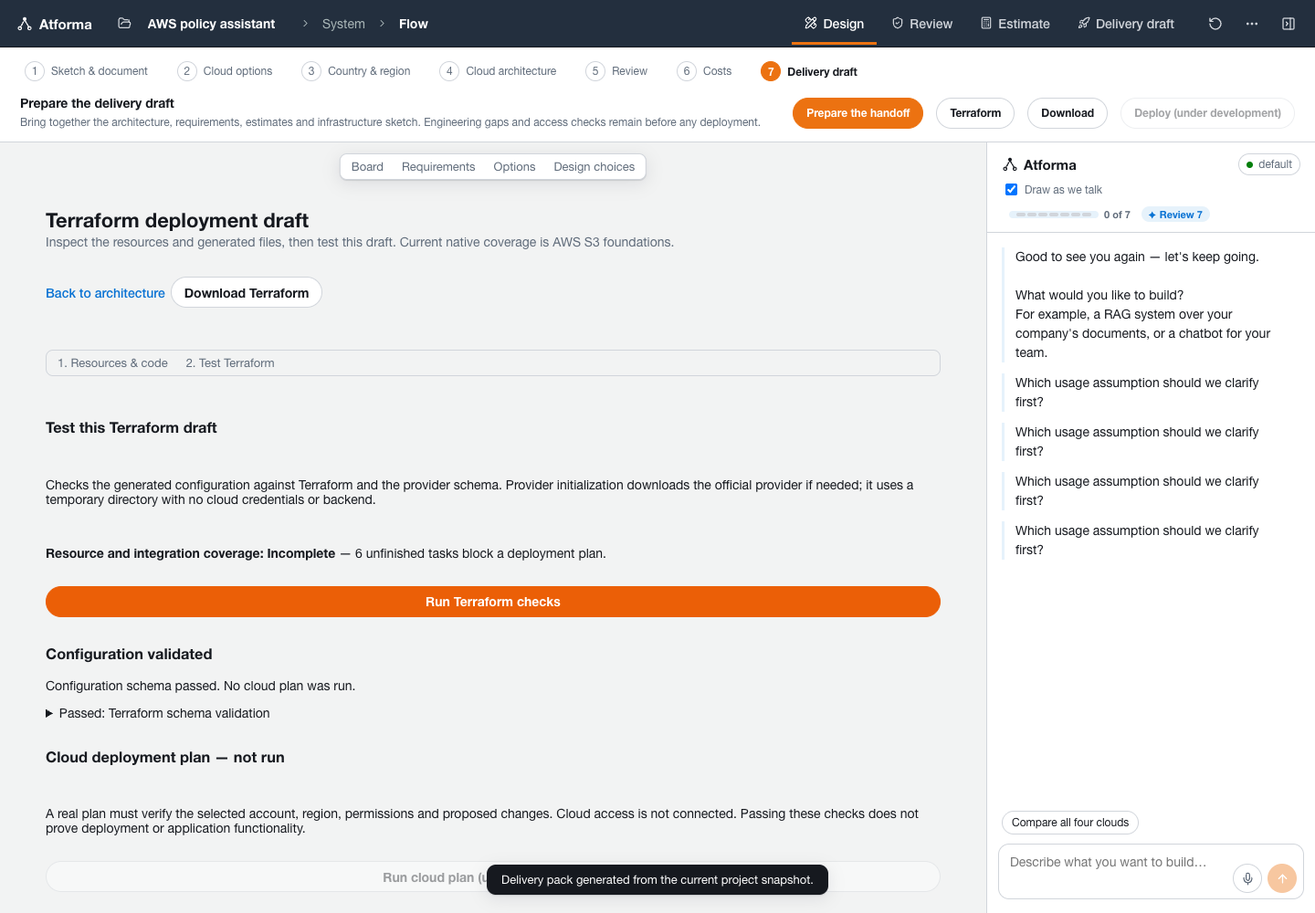
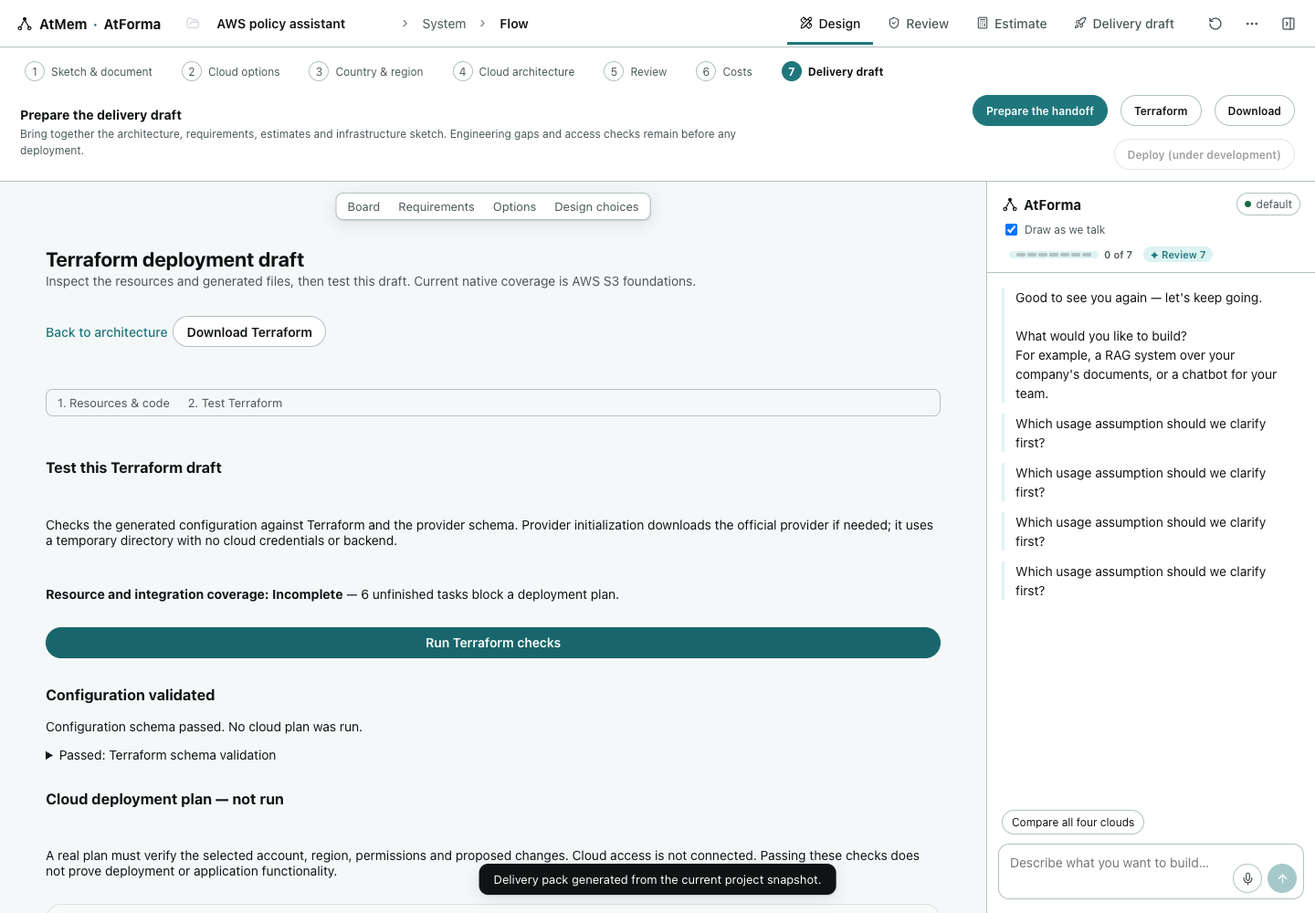
feat: add coding-agent Spec Kit and align AtForma with AtMem branding

diff --git a/src/EngagementViews.jsx b/src/EngagementViews.jsx
@@ -139,7 +139,7 @@ export function OptionsView({ project, onDiscuss, onPreview, onChoose, onContinu
     {selected && <p className="cloud-selection" role="status"><strong>Selected: {OPTION_NAMES[selected]}</strong> · You can change your choice below. <button className="btn primary" disabled={busy} onClick={onContinue}>Continue with {OPTION_NAMES[selected]} →</button></p>}
     {!ready && <p className="muted">We’ll clarify what matters to you and explain the tradeoffs here as we go.</p>}
     {['current','aws','azure','gcp','ibm'].filter(id => notes[id]).map(id => <article className="consultation-summary" key={id}>
-      <h3>{OPTION_NAMES[id]}{selected===id ? " · Selected" : ""}</h3><p>{notes[id].replace(/^Atforma proposal — confirm: /,'')}</p>
+      <h3>{OPTION_NAMES[id]}{selected===id ? " · Selected" : ""}</h3><p>{notes[id].replace(/^At[Ff]orma proposal — confirm: /,'')}</p>
       <button className="link" onClick={() => onDiscuss(`Explain how ${OPTION_NAMES[id]} fits our design and the main tradeoff. Ask one question to help me decide; keep this as a discussion until I explicitly choose.`)}>Discuss this option</button>
       {id!=="current" && <><button className="link" onClick={()=>onPreview(id)}>Preview service architecture</button><button className="btn primary" disabled={busy||selected===id} onClick={()=>onChoose(id)}>{selected===id ? `${OPTION_NAMES[id]} selected` : `Choose ${OPTION_NAMES[id]} & continue →`}</button></>}
     </article>)}
@@ -153,7 +153,7 @@ export function DecisionsView({ project, onDiscuss }) {
   const sketches = all.filter(d => d.subject?.startsWith('design.'));
   const labels = {'platform.cloud':'Cloud provider','cloud.region':'Region','data.country':'Country / data residency','infrastructure.tool':'Infrastructure tool'};
   return <section className="doc" aria-label="Decisions">
-    <header className="doc-head"><h2>Choices we’ve made</h2><p className="muted">Atforma records your choices and explains why they fit. You can revisit them in chat.</p></header>
+    <header className="doc-head"><h2>Choices we’ve made</h2><p className="muted">AtForma records your choices and explains why they fit. You can revisit them in chat.</p></header>
     <button className="btn" onClick={() => onDiscuss('Review our current design and explicit choices. Explain the next choice we need to make and ask me one useful question. Do not treat a sketch or a suggestion as an accepted decision.')}>Discuss the next choice</button>
     {!current.length && <p className="muted">No choices confirmed yet. We’ll work through them together as the design develops.</p>}
     {current.map(d => <article className="consultation-summary" key={d.id}>
@@ -290,14 +290,14 @@ function RequirementComments({ requirement, comments, onSave, onRemove, target, 
         <p className="revision-label">Proposed wording</p><p className="revision-after">{c.after}</p><p>{c.explanation}</p>
         <button className="requirement-add-comment" onClick={()=>onResolve(c.id,true)}>Apply this revision</button>
         <button className="link" onClick={()=>onResolve(c.id,false)}>Keep current wording</button>
-      </div> : <><p className="comment-status">{c.reviewMessage || 'Saved feedback. Ask Atforma to suggest wording, then review the change here.'}</p><button className="requirement-add-comment" disabled={reviewing} onClick={()=>onReview([c])}>{reviewing?'Preparing suggestions…':'Suggest a revision'}</button><button className="link" onClick={()=>onDiscuss(`Help me clarify my feedback on ${number} (${requirement.id}): ${c.text}. Ask one question before proposing a change.`)}>Discuss feedback</button></>}
+      </div> : <><p className="comment-status">{c.reviewMessage || 'Saved feedback. Ask AtForma to suggest wording, then review the change here.'}</p><button className="requirement-add-comment" disabled={reviewing} onClick={()=>onReview([c])}>{reviewing?'Preparing suggestions…':'Suggest a revision'}</button><button className="link" onClick={()=>onDiscuss(`Help me clarify my feedback on ${number} (${requirement.id}): ${c.text}. Ask one question before proposing a change.`)}>Discuss feedback</button></>}
       <button className="link" onClick={()=>onRemove(c.id)} aria-label={`Remove comment ${c.id}`}>Remove</button>
     </div>)}
     {comments.some(c=>['reviewed','dismissed'].includes(c.status)) && <details className="comment-history"><summary>Feedback history</summary>{comments.filter(c=>['reviewed','dismissed'].includes(c.status)).map(c=><div key={c.id}><p>{c.text}</p><small>{c.status==='reviewed'?'Revision applied':'Original wording kept'}</small>{c.after&&<p>{c.after}</p>}</div>)}</details>}
     {!open ? <button className="requirement-add-comment" onClick={()=>{setQuote('');setOpen(true);}}>Comment or request a change</button> : <div className="comment-composer">
       <strong>Feedback on {number}</strong>{quote && <blockquote>{quote}</blockquote>}
       <textarea ref={editor} aria-label={`Comment on ${requirement.id}`} value={text} maxLength={500} onChange={e=>setText(e.target.value)} placeholder="What doesn’t fit, what’s missing, or what would you like explained?" />
-      <p className="comment-status">Atforma will suggest new wording below. You decide whether to apply it.</p>
+      <p className="comment-status">AtForma will suggest new wording below. You decide whether to apply it.</p>
       <button className="btn" disabled={!text.trim()||reviewing} onClick={()=>save(true)}>Suggest a revision</button>
       <button className="link" disabled={!text.trim()} onClick={()=>save(false)}>Save for later</button>
       <button className="link" onClick={()=>{setOpen(false);setText('');}}>Cancel</button>
@@ -347,7 +347,7 @@ export function RequirementsView({ project, onDiscuss, onChange, onReview, revie
     </div>}
     <article className="requirements-paper" aria-label="Requirements document">
       <header className="requirements-cover">
-        <p className="document-kicker">Atforma · Working requirements</p>
+        <p className="document-kicker">AtForma · Working requirements</p>
         <h2>{project.name || 'Solution requirements'}</h2>
         <p className="document-subtitle">Where we’ve reached</p>
         <p>This document brings together the requirements developed from our board and discussion. Proposed requirements remain open for review as the design evolves.</p>
@@ -369,10 +369,10 @@ export function RequirementsView({ project, onDiscuss, onChange, onReview, revie
         </div>)}
         <button className="link document-discuss" onClick={()=>onDiscuss(`Let's discuss the ${titles[key] || key} section of our requirements document further. Current requirements: ${rows.map(r=>`${r.id}: ${r.statement}`).join('; ')}. Ask one useful question and refine the document from my answer.`)}>Discuss this section further in chat</button>
       </Tag>;})}
-      {!needs.length && <section className="requirements-chapter"><h3>Requirements to develop</h3><p>As we discuss the idea and shape the board, Atforma will summarise the functional requirements, constraints and acceptance targets here.</p></section>}
+      {!needs.length && <section className="requirements-chapter"><h3>Requirements to develop</h3><p>As we discuss the idea and shape the board, AtForma will summarise the functional requirements, constraints and acceptance targets here.</p></section>}
       {!!project.assumptions?.length && <section className="requirements-chapter"><h3>Assumptions to validate</h3>{project.assumptions.map(a=><p key={a.id}>{a.statement}</p>)}</section>}
       {!!questions.length && <section className="requirements-chapter"><h3>Open questions</h3>{questions.map(q=><p key={q.id}>{q.question}</p>)}<button className="link document-discuss" onClick={()=>onDiscuss(`Help resolve the open questions in our requirements document, one at a time. Start with the question that most affects the design.`)}>Let’s work through these in chat</button></section>}
-      <footer className="document-footer">Atforma · Requirements derived from the current design and discussion</footer>
+      <footer className="document-footer">AtForma · Requirements derived from the current design and discussion</footer>
     </article>
   </section>;
 }

diff --git a/src/MemoryPanel.jsx b/src/MemoryPanel.jsx
@@ -32,10 +32,10 @@ export function MemoryPanel({ session, project, onError }) {
       <div className="row"><span className={report.status==='unavailable'?'warn-text':'muted'}>{report.enabled ? report.status==='unavailable'?'Memory unavailable — project only':`${report.engine} · connected` : 'Memory off for this project'}</span><span className="small">{report.pending} pending · {report.rejected} rejected</span><button className="btn ghost" disabled={working} onClick={()=>act(async()=>{await memoryCall(session,'settings',{...payload,enabled:!report.enabled});})}>{report.enabled?'Turn memory off':'Turn memory on'}</button></div>
       <p className="muted small">Policy: {report.policy}. Corrections supersede earlier values. Forget explicitly removes the selected memory and its history; project files remain separate.</p>
       <div className="seg" role="tablist" aria-label="Memory views">{[['profile','About you'],['project','This project'],['skills','Skills'],['activity','Activity']].map(([id,label])=><button key={id} role="tab" aria-selected={tab===id} className={tab===id?'on':''} onClick={()=>{setTab(id);setPreview(null);}}>{label}</button>)}</div>
-      {tab==='profile' && <form className="memory-profile" onSubmit={e=>{e.preventDefault();act(async()=>{await memoryCall(session,'profile',{...payload,field,value});setValue('');});}}><label className="field">Preference<select aria-label="Preference type" value={field} onChange={e=>setField(e.target.value)}><option value="explanation">How to explain things</option><option value="experience">Experience and role</option><option value="iac">Infrastructure tool preference</option><option value="preferences">Other confirmed preferences</option></select></label><label className="field">What should Atforma remember?<textarea aria-label="Remember about me" value={value} maxLength={1000} onChange={e=>setValue(e.target.value)} placeholder="For example: explain things concisely; I prefer Pulumi." /></label><button className="btn primary" disabled={working||!report.enabled||!value.trim()}>Remember preference</button></form>}
+      {tab==='profile' && <form className="memory-profile" onSubmit={e=>{e.preventDefault();act(async()=>{await memoryCall(session,'profile',{...payload,field,value});setValue('');});}}><label className="field">Preference<select aria-label="Preference type" value={field} onChange={e=>setField(e.target.value)}><option value="explanation">How to explain things</option><option value="experience">Experience and role</option><option value="iac">Infrastructure tool preference</option><option value="preferences">Other confirmed preferences</option></select></label><label className="field">What should AtForma remember?<textarea aria-label="Remember about me" value={value} maxLength={1000} onChange={e=>setValue(e.target.value)} placeholder="For example: explain things concisely; I prefer Pulumi." /></label><button className="btn primary" disabled={working||!report.enabled||!value.trim()}>Remember preference</button></form>}
       {(tab==='profile'||tab==='project') && <><div className="resource-schedule">{records.map(r=><article key={r.id}><strong>{r.status==='active'?'Current':'Earlier value'} · {r.fact_key}</strong><span>{r.content}</span><small>{r.created_at?.slice(0,10)} · {r.id}</small>{r.status==='active' && <button className="btn ghost" disabled={working} onClick={()=>act(async()=>setPreview({...(await memoryCall(session,'forget-preview',{...payload,scope:tab==='profile'?'user':'project',recordId:r.id})),scope:tab==='profile'?'user':'project',recordId:r.id}))}>Preview forget</button>}</article>)}</div>{!records.length&&<p className="muted">No memories recorded in this view yet.</p>}</>}
       {preview && <section className="memory-preview"><h3>Review removal</h3><p>{preview.notice}</p><p>{preview.records.length} current/historical records will be removed.</p><button className="btn danger" disabled={working} onClick={()=>act(async()=>{await memoryCall(session,'forget',{...payload,scope:preview.scope,recordId:preview.recordId});setPreview(null);})}>Confirm forget</button><button className="btn ghost" onClick={()=>setPreview(null)}>Keep memory</button></section>}
-      {tab==='skills' && <div className="resource-schedule">{report.skills.map(s=><article key={s.id}><strong>{s.name} v{s.version}</strong><small>{s.coverage} · integrity {s.integrity?'verified':'failed'}</small><span>{s.source.startsWith('https:')?<a href={s.source} target="_blank" rel="noreferrer">Pinned source</a>:s.source}</span><small>SHA256: {s.digest.slice(0,16)}… · tools: {s.tools.join(', ')}</small><button className="btn ghost" disabled={working||!s.integrity} onClick={()=>act(async()=>memoryCall(session,'skill',{...payload,skillId:s.id,enabled:!s.enabled}))}>{s.enabled?'Disable':'Enable'} {s.id}</button></article>)}<p className="muted small">Upstream files are pinned references with their licences. Missing companion files and cloud tool packages are not activated. Atforma loads its reviewed specialist guidance; no bundled scripts run.</p></div>}
+      {tab==='skills' && <div className="resource-schedule">{report.skills.map(s=><article key={s.id}><strong>{s.name} v{s.version}</strong><small>{s.coverage} · integrity {s.integrity?'verified':'failed'}</small><span>{s.source.startsWith('https:')?<a href={s.source} target="_blank" rel="noreferrer">Pinned source</a>:s.source}</span><small>SHA256: {s.digest.slice(0,16)}… · tools: {s.tools.join(', ')}</small><button className="btn ghost" disabled={working||!s.integrity} onClick={()=>act(async()=>memoryCall(session,'skill',{...payload,skillId:s.id,enabled:!s.enabled}))}>{s.enabled?'Disable':'Enable'} {s.id}</button></article>)}<p className="muted small">Upstream files are pinned references with their licences. Missing companion files and cloud tool packages are not activated. AtForma loads its reviewed specialist guidance; no bundled scripts run.</p></div>}
       {tab==='activity' && <div className="resource-schedule">{report.activity.map(a=><article key={a.id}><strong>{a.success?'Architect turn completed':'Turn did not complete'} · {a.createdAt.slice(0,19)}</strong><span>{a.recordIds.length} memory records · skills: {a.skillIds.join(', ')}</span><small>{a.boundary} · context digest {a.contextDigest.slice(0,16)}…</small>{a.tools.map((t,i)=><small key={i}>{t.name}: {t.success?'completed':'unavailable'}</small>)}</article>)}{!report.activity.length&&<p className="muted">No recorded architect turns for this project yet.</p>}</div>}
       <button className="btn ghost" disabled={working} onClick={()=>act(refresh)}>Refresh / retry pending sync</button>
     </>}

diff --git a/src/main.jsx b/src/main.jsx
@@ -147,10 +147,10 @@ const ROLE_STYLE = {
   monitor: ["#e7157b", Gauge],
   guard: ["#dd344c", ShieldCheck],
   human: ["#5f6b7a", UserCheck],
-  app: ["#ed7100", AppWindow],
-  output: ["#ed7100", CheckCheck],
+  app: ["#1f777c", AppWindow],
+  output: ["#1f777c", CheckCheck],
 };
-const LAYER_COLOR = { data: "#7aa116", ml: "#01a88d", intelligence: "#01a88d", integration: "#e7157b", governance: "#dd344c", delivery: "#ed7100" };
+const LAYER_COLOR = { data: "#7aa116", ml: "#01a88d", intelligence: "#01a88d", integration: "#e7157b", governance: "#dd344c", delivery: "#1f777c" };
 const MODE_ICON = { design: PencilRuler, review: ShieldCheck, estimate: Calculator, deploy: Rocket };
 const SCENARIOS = [
   ["happy", "Normal day", null],
@@ -1098,7 +1098,7 @@ function App() {
         const scores = structuredClone(a.scores), notes = { ...a.notes };
         for (const option of result.optionAssessment) {
           scores[option.provider] = option.scores;
-          notes[option.provider] = `Atforma proposal — confirm: ${option.rationale}`;
+          notes[option.provider] = `AtForma proposal — confirm: ${option.rationale}`;
         }
         updateEngagement({ ...p, assessment: { ...a, scores, notes } });
         signals.push("cloud comparison updated");
@@ -1296,7 +1296,7 @@ function App() {
       const snapshot=structuredClone(project);
       const files=deliveryPack(snapshot, run, environment);
       const {visualFiles}=await import('./visual-export.mjs');
-      Object.assign(files,await visualFiles(snapshot,files['specification.md']));
+      Object.assign(files,await visualFiles(snapshot,files['specification.md'],files['spec-kit/implementation-spec.md']));
       const manifest=JSON.parse(files['manifest.json']);
       manifest.files=Object.keys(files);files['manifest.json']=JSON.stringify(manifest,null,2);
       exportFiles(files, "delivery");
@@ -1318,13 +1318,13 @@ function App() {
         live = await discoverLocalAgent();
         setSession(live);
       } catch {
-        throw Error("Atforma's local service isn't running. Start it with npm run local, then try again.");
+        throw Error("AtForma's local service isn't running. Start it with npm run local, then try again.");
       }
     }
     const result = await requestArchitect({
       session: live,
       connection: choice,
-      message: "Connection check from Atforma. Reply with one short sentence; no proposal.",
+      message: "Connection check from AtForma. Reply with one short sentence; no proposal.",
       project: projectRef.current,
       history: [],
       stage: "discover",
@@ -1525,9 +1525,9 @@ function App() {
   return (
     <div className={`app ${chatOpen ? "" : "chat-closed"}`}>
       <header className="bar">
-        <button className="brand" onClick={() => setModal("about")} title="About Atforma">
+        <button className="brand" onClick={() => setModal("about")} title="About AtForma">
           <Mark />
-          <span>Atforma</span>
+          <span>AtMem <span className="brand-divider">·</span> AtForma</span>
         </button>
         <nav className="crumbs" aria-label="Level">
           <button className="projects-btn" aria-label="Projects" title="Your projects" onClick={() => (refreshProjects(), setModal("projects"))}>
@@ -1959,7 +1959,7 @@ function App() {
         <aside className="chat" aria-label="Chat">
           <div className="chat-head">
             <strong className="chat-title">
-              <Mark /> Atforma
+              <Mark /> AtForma
             </strong>
             <label className="live-toggle" title="On: changes are drawn as we talk, and you can undo any of them. Off: they wait as previews for you to apply.">
               <input
@@ -2226,7 +2226,7 @@ function App() {
               </>
             ) : (
               <>
-                <h2>Atforma</h2>
+                <h2>AtForma</h2>
                 <p>
                   Let's design your AI stack together: you describe it, we draw it, then review, estimate and document it.
                   Part of atmem.ai. Runs on your computer; nothing is deployed.

diff --git a/src/atflow.css b/src/atflow.css
@@ -1,25 +1,25 @@
 /* AtFlow — whiteboard-simple, high-contrast shell. Tokens from atmem-tokens.css. */
 :root {
-  /* Infrastructure-console palette (AWS console familiar): squid-ink chrome, orange action, blue focus. */
-  --ink: light-dark(#16191f, #e9ebed);
-  --ink-2: light-dark(#5f6b7a, #9ba7b6);
-  --paper: light-dark(#ffffff, #192534);
-  --board: light-dark(#f2f3f3, #0f1b2a);
-  --line: light-dark(#d1d5db, #354150);
-  --edge: light-dark(#545b64, #8d99a8);
-  --accent: light-dark(#0972d3, #539fe5);
-  --accent-soft: light-dark(#e6f2fb, #12293f);
-  --action: #ec7211;
-  --action-hover: #eb5f07;
-  --chrome: #232f3e;
-  --chrome-2: #16191f;
-  --chrome-ink: #ffffff;
-  --good: light-dark(#037f0c, #29ad32);
-  --bad: light-dark(#d91515, #ff5d64);
-  --warn: light-dark(#8d6605, #f2b45a);
+  /* Shared AtMem.ai tokens: teal actions, neutral surfaces, accessible light/dark contrast. */
+  --ink: var(--color-ink);
+  --ink-2: var(--color-muted);
+  --paper: var(--color-card);
+  --board: var(--color-card-raised);
+  --line: var(--color-line);
+  --edge: var(--color-muted);
+  --accent: var(--color-brand);
+  --accent-soft: var(--color-brand-soft);
+  --action: var(--color-brand);
+  --action-hover: light-dark(#18666b, #7bdce1);
+  --chrome: var(--color-card);
+  --chrome-2: var(--color-line);
+  --chrome-ink: var(--color-ink);
+  --good: var(--color-good);
+  --bad: var(--color-bad);
+  --warn: var(--color-warn);
   --radius: 10px;
   --shadow: 0 1px 1px rgb(0 7 22 / 0.12), 0 4px 18px rgb(0 7 22 / 0.10);
-  font-family: "Amazon Ember", "Helvetica Neue", Roboto, Arial, var(--type-family-sans);
+  font-family: var(--type-family-sans);
   color: var(--ink);
   background: var(--board);
 }
@@ -842,3 +842,13 @@ label.inline input { width: 60px; }
 
 .terraform-code { white-space:pre-wrap; overflow-wrap:anywhere; max-height:55vh; overflow:auto; padding:18px; background:var(--paper); border:1px solid var(--line); border-radius:8px; font-size:12px; line-height:1.6; }
 .terraform-view .row, .terraform-view .seg { margin:16px 0; flex-wrap:wrap; }
+
+/* AtMem · AtForma lockup and shared theme; retain workspace layout. */
+.bar .icon, .crumbs, .modes button { color:var(--color-muted); }
+.crumbs .here, .project-name, .modes button.on, .modes button:hover { color:var(--color-ink); }
+.bar .brand:hover, .bar .icon:hover:not(:disabled), .crumbs button:hover { background:var(--color-brand-soft); color:var(--color-ink); }
+.btn.primary, .button.run-button, .modal .button.run-button, .send, .journey-steps li[aria-current=step] span { color:var(--color-brand-ink); }
+.seg button.on, .chips button.on { background:var(--color-brand-soft); color:var(--color-ink); }
+.brand { white-space:nowrap; }
+.brand-divider { color:var(--color-brand); padding:0 3px; }
+@media(max-width:900px){.brand span{display:inline;}}

diff --git a/src/WorkbenchDialogs.jsx b/src/WorkbenchDialogs.jsx
@@ -29,7 +29,7 @@ const MONO = {
   openai: ["O", "#0d8a6a"],
   "gemini-api": ["G", "#1a73e8"],
   xai: ["X", "#000000"],
-  bedrock: ["B", "#ff9900"],
+  bedrock: ["B", "#1f777c"],
 };
 export const EFFORT_LABEL = { none: "Instant", minimal: "Instant", low: "Fast", medium: "Balanced", high: "Deep", xhigh: "Deeper", max: "Max", ultra: "Ultra" };
 
@@ -64,7 +64,7 @@ export function Connections({ session, connection, onCheck, onSave, onRetry, wel
       headers: { "Content-Type": "application/json", Authorization: `Bearer ${session.token}` },
       body: JSON.stringify({ provider: choice }),
     })
-      .then((r) => (r.ok ? r.json() : Promise.reject(Error(r.status === 404 ? "Atforma's helper is out of date — restart it with npm run local." : "Couldn't load models."))))
+      .then((r) => (r.ok ? r.json() : Promise.reject(Error(r.status === 404 ? "AtForma's helper is out of date — restart it with npm run local." : "Couldn't load models."))))
       .then(({ models, reason }) => {
         if (!live) return;
         setList(models || []);
@@ -149,7 +149,7 @@ export function Connections({ session, connection, onCheck, onSave, onRetry, wel
       <h2>{welcome ? "Check your connection" : "Connection"}</h2>
       {!session && (
         <p className="error-box">
-          Looks like Atforma's helper isn't running. Start it with <code>npm run local</code>, then{" "}
+          Looks like AtForma's helper isn't running. Start it with <code>npm run local</code>, then{" "}
           <button className="link" onClick={onRetry}>
             retry
           </button>
@@ -248,7 +248,7 @@ export function Connections({ session, connection, onCheck, onSave, onRetry, wel
               </option>
             ))
           ) : (
-            <option value="">{!session ? "Waiting for Atforma's helper…" : reason || "Loading your models…"}</option>
+            <option value="">{!session ? "Waiting for AtForma's helper…" : reason || "Loading your models…"}</option>
           )}
         </select>
       </label>

diff --git a/index.html b/index.html
@@ -1,2 +1,2 @@
 <!doctype html>
-<html lang="en"><head><meta charset="UTF-8"/><meta name="viewport" content="width=device-width,initial-scale=1.0"/><meta name="theme-color" content="#ffffff"/><title>Atforma · atmem.ai</title><meta name="description" content="Atforma: a local AI stack consultant. Describe what you want to build, design it together, review, estimate and prepare a deployment document."/></head><body><div id="root"></div><script type="module" src="/src/main.jsx"></script></body></html>
+<html lang="en"><head><meta charset="UTF-8"/><meta name="viewport" content="width=device-width,initial-scale=1.0"/><meta name="theme-color" content="#ffffff"/><title>AtForma · atmem.ai</title><meta name="description" content="AtForma: a local AI stack consultant. Describe what you want to build, design it together, review, estimate and prepare a deployment document."/></head><body><div id="root"></div><script type="module" src="/src/main.jsx"></script></body></html>

diff --git a/src/JourneyViews.jsx b/src/JourneyViews.jsx
@@ -1,4 +1,4 @@
-// Review, Estimate and Deploy steps of the Atforma journey.
+// Review, Estimate and Deploy steps of the AtForma journey.
 import React from "react";
 import { ATTRIBUTES, acceptRisk, blockers } from "./review.mjs";
 import { DISCLAIMER, INPUTS, setPrice, setUsage } from "./estimate.mjs";
@@ -223,7 +223,7 @@ export function DeployView({ project, findings, environment, onEnvironment, onPl
     <section className="doc" aria-label="Deploy">
       <header className="doc-head">
         <h2>Deploy</h2>
-        <p className="muted">A reviewable plan and document. Atforma never provisions anything on its own.</p>
+        <p className="muted">A reviewable plan and document. AtForma never provisions anything on its own.</p>
       </header>
       <div className="ready no">
         <strong>{block.length ? "Not ready for deployment" : "No automated review blockers"}</strong>

diff --git a/README.md b/README.md
@@ -1,6 +1,6 @@
-# Atforma — local AI stack consultant (atmem.ai)
+# AtForma — local AI stack consultant (atmem.ai)
 
-Atforma helps you design, and eventually deploy, an AI solution that fits your existing systems. You describe what you want in your own words; the architect asks a few easy questions at a time ("not sure" is always fine), sketches a first design, and leads you through **Sketch and document → Cloud options → Country and concrete service architecture → Review → Estimate → Delivery draft**. Everything is kept in one project file you can reopen and regenerate outputs from. Runs locally; nothing is deployed.
+AtForma helps you design, and eventually deploy, an AI solution that fits your existing systems. You describe what you want in your own words; the architect asks a few easy questions at a time ("not sure" is always fine), sketches a first design, and leads you through **Sketch and document → Cloud options → Country and concrete service architecture → Review → Estimate → Delivery draft**. Everything is kept in one project file you can reopen and regenerate outputs from. Runs locally; nothing is deployed.
 
 The architect's know-how lives in [`agent-skills/`](agent-skills): a discovery skill (what to ask, in what order, in plain language, and what to assume when unsure) and workflow skills (knowledge assistant, document processing, prediction, agentic automation). The connected model uses them alongside a small reviewed specialist registry for architecture, security, FinOps, DevOps and all four clouds.
 
@@ -31,14 +31,14 @@ copilot login
 gemini
 ```
 
-Use only commands for providers you want. Atforma uses their supported native authentication; it does not extract tokens or implement a generic subscription OAuth proxy. Installation and subscription do not guarantee a particular model is available. Choose `default` for a native client's default model or enter an accessible model ID.
+Use only commands for providers you want. AtForma uses their supported native authentication; it does not extract tokens or implement a generic subscription OAuth proxy. Installation and subscription do not guarantee a particular model is available. Choose `default` for a native client's default model or enter an accessible model ID.
 
 For API access, enter a Claude/OpenAI/Gemini key in the local dialog (sidecar memory only), or supply `ANTHROPIC_API_KEY`, `OPENAI_API_KEY` or `GEMINI_API_KEY` to the sidecar environment. Do not put keys in project data or source control. API billing is separate from account subscriptions. Bedrock is an optional explicit `ATFORMA_ENABLE_BEDROCK=1` + AWS SDK configuration path.
 
 ## Try it
 
 1. **Describe your idea in chat.** The connected architect draws a first sketch and asks one useful question at a time. Answer in your own words. No default blocks are inserted by the local UI.
-2. **Work on the diagram together.** Add blocks and right-click comments; with **Draw as we talk** enabled, semantic edits are sent to the architect after a short pause. Routine moves do not trigger a consultation. Requirements are a short read-only working summary derived from the current design, with **Discuss** and **Clarify with Atforma** continuing in chat. Your answers update the working requirements. Opening **Options** asks for a provisional comparison of the current approach, AWS, Azure, Google Cloud and IBM; scores are architectural judgements, not price quotes.
+2. **Work on the diagram together.** Add blocks and right-click comments; with **Draw as we talk** enabled, semantic edits are sent to the architect after a short pause. Routine moves do not trigger a consultation. Requirements are a short read-only working summary derived from the current design, with **Discuss** and **Clarify with AtForma** continuing in chat. Your answers update the working requirements. Opening **Options** asks for a provisional comparison of the current approach, AWS, Azure, Google Cloud and IBM; scores are architectural judgements, not price quotes.
 3. **Review.** Findings grouped by security, reliability, availability, scalability, performance, maintainability and cost, each with its rule and an action. Accept a risk with a reason and an owner. **Test run** runs designs that have sample-data fixtures (predictive-maintenance and analytics templates).
 4. **Estimate.** The architect asks about the largest missing usage or scope assumption in chat. Supported storage list prices are retrieved for the explicit provider/region; the summary shows costs and gaps. Optional worksheet inputs and sources are available in a collapsed inspector. Start with a ROM using stated low/high factors. Refine with detailed cloud charge lines (input/output tokens, compute, requests, storage and transfer), each with quantity, unit, currency, service, region, date and price source. Detailed lines replace the coarse ROM line for that component. Mixed currencies are never summed; stale prices and uncosted components are flagged. Enter one-off consulting/build person-days, rates and scope separately; no prices or effort are invented.
 5. **Delivery draft.** Inspect the diagram-derived resource schedule and engineering gaps. **Download delivery pack** exports the specification, diagram, architecture/deployment document, decisions, estimate JSON, resource schedule, handoff checklist, editable project and Terraform sketch from one snapshot. Change the project and regenerate. A manifest identifies each snapshot, design revision and generation time. Nothing is provisioned.
@@ -47,11 +47,11 @@ Use **Undo / Redo** for board changes (Cmd/Ctrl+Z and Cmd/Ctrl+Shift+Z). A new b
 
 ## AtMem
 
-Open **⋯ → AtMem dashboard** for About you, This project, Skills and Activity. This is Atforma's scoped dashboard over the real AtMem 2.3.10 SDK, not the separate upstream operator dashboard. AtMem uses its own `.memory-venv` because its crypto dependencies differ from the model SDK environment. App-owned memory is stored under `~/.atforma/memory` (or `ATFORMA_HOME/memory`); the existing `~/.atmem` store is untouched.
+Open **⋯ → AtMem dashboard** for About you, This project, Skills and Activity. This is AtForma's scoped dashboard over the real AtMem 2.3.10 SDK, not the separate upstream operator dashboard. AtMem uses its own `.memory-venv` because its crypto dependencies differ from the model SDK environment. App-owned memory is stored under `~/.atforma/memory` (or `ATFORMA_HOME/memory`); the existing `~/.atmem` store is untouched.
 
 Only explicit reusable preferences, accepted project decisions, explicitly authored must-have requirements and budget limits qualify for personal/project memory. Drafts, block positions, canvas comments and routine turns are excluded. You can explicitly say **Remember about me: …**, inspect current/earlier values, preview forgetting, and turn memory off per project. Durable pending updates retry after an outage; content entered while opted out is not replayed. An unavailable memory runtime leaves the architect working from the current project.
 
-The specialist registry is hash checked, has per-skill enable/disable controls, and stores reviewed guidance in a separate AtMem knowledge scope. Pinned upstream skills and their licences are preserved as reference-only assets. The app's bounded broker exposes memory lookup, project read, skill lookup and supported storage price lookup. It has no deployment or shell tool. Per-turn expandable receipts show the context Atforma supplied; they cannot attest to a native client's hidden internal prompt.
+The specialist registry is hash checked, has per-skill enable/disable controls, and stores reviewed guidance in a separate AtMem knowledge scope. Pinned upstream skills and their licences are preserved as reference-only assets. The app's bounded broker exposes memory lookup, project read, skill lookup and supported storage price lookup. It has no deployment or shell tool. Per-turn expandable receipts show the context AtForma supplied; they cannot attest to a native client's hidden internal prompt.
 
 Current automated storage pricing covers AWS S3 Standard and Azure Blob Hot LRS in an exact supported region/tier. Google Cloud Catalog lookup needs `GOOGLE_CLOUD_BILLING_API_KEY`; IBM needs an exact sourced quote. Missing rates remain explicit gaps. These are storage lines, not a complete infrastructure estimate, and rates are never borrowed across providers.
 
@@ -90,13 +90,13 @@ Options and Design choices are read-only conversational outputs. The architect r
 
 Requirements have stable REQ numbers, retained across document revisions and project saves. Early proposals are collected under **Suggestions still to discuss**. Each requirement includes its rationale and basis when available, with **Explain why we need this** continuing the interview. The local fallback proposes only access and data-location considerations for relevant diagram components; it no longer creates a requirement for every block.
 
-Use **Comment or request a change**, or select requirement text and right-click **Comment on selected text**. **Suggest a revision** saves the feedback and asks Atforma for new wording. The current document remains unchanged while you inspect current/proposed text and choose **Apply this revision** or **Keep current wording**. **Save for later** leaves feedback pending. Applied and dismissed suggestions are kept in Feedback history. Comments and proposals survive save/open; stale suggestions cannot overwrite a newer requirement. Document reviews do not apply board, estimate or cloud-choice updates.
+Use **Comment or request a change**, or select requirement text and right-click **Comment on selected text**. **Suggest a revision** saves the feedback and asks AtForma for new wording. The current document remains unchanged while you inspect current/proposed text and choose **Apply this revision** or **Keep current wording**. **Save for later** leaves feedback pending. Applied and dismissed suggestions are kept in Feedback history. Comments and proposals survive save/open; stale suggestions cannot overwrite a newer requirement. Document reviews do not apply board, estimate or cloud-choice updates.
 
 ## Guided progression
 
 A new project shows the design workspace. The journey strip above the board stays visible with chat open or closed: **Sketch & document → Cloud options → Country & region → Cloud architecture**. It highlights the current stage and gives the next action. Sketch and requirements evolve together; **Continue to cloud options** acknowledges a working scope from either the board or document. The architect compares actual service combinations across AWS, Azure, Google Cloud and IBM. **Preview service architecture** draws an alternative as a pending preview; it does not select a cloud or overwrite the current board.
 
-Click any reached stage in the journey strip to revisit it. Use **Choose AWS & continue →** (or the equivalent Azure, Google Cloud or IBM action) to select a provider and return to the guided conversation. Revisiting Cloud options shows the selected provider and **Continue with [provider] →**; you can choose another provider there. After the cloud choice, Atforma asks about country/residency and refines the board into named services, placement and labelled interactions. Review appears after the user continues with that service design. Estimate follows the risk discussion; Delivery draft follows the cost discussion. These checkpoints acknowledge working drafts, including open risks and cost gaps; they are not claims of verified cloud compatibility or permission to deploy. Revising scope or service architecture reopens the relevant earlier step. Progress is stored in the project file.
+Click any reached stage in the journey strip to revisit it. Use **Choose AWS & continue →** (or the equivalent Azure, Google Cloud or IBM action) to select a provider and return to the guided conversation. Revisiting Cloud options shows the selected provider and **Continue with [provider] →**; you can choose another provider there. After the cloud choice, AtForma asks about country/residency and refines the board into named services, placement and labelled interactions. Review appears after the user continues with that service design. Estimate follows the risk discussion; Delivery draft follows the cost discussion. These checkpoints acknowledge working drafts, including open risks and cost gaps; they are not claims of verified cloud compatibility or permission to deploy. Revising scope or service architecture reopens the relevant earlier step. Progress is stored in the project file.
 
 See [guided journey implementation and validation](docs/GUIDED_JOURNEY.md). `python -m scripts.live-guided-check codex` is an opt-in real account check using synthetic data; it incurs model usage and never deploys resources.
 
@@ -111,3 +111,15 @@ Terraform remains a partial draft: native AWS S3 foundations are generated; othe
 At the cloud architecture stage, **Terraform** opens **Resources & code**, showing implemented foundations, missing resources/integrations and the generated files. **Continue to Test Terraform → Run Terraform checks** sends the project to the authenticated local service. The server regenerates its own Terraform from the project (it never executes caller-supplied Terraform files), initializes the official provider with the backend disabled, then runs `terraform validate -json`. Temporary files are removed afterwards, and cloud credentials and Terraform CLI overrides are excluded from the subprocess environment. Provider installation needs network access.
 
 Install Terraform on PATH or in `.venv/bin/`, or set `ATFORMA_TERRAFORM_BIN` for `npm run local`. Missing tools, provider download failures and validation failures are shown explicitly. Results are cleared when the draft changes. Coverage gaps remain visible even when schema validation passes. A real cloud plan and apply are not connected; a successful schema check cannot establish account permissions, regional availability, successful deployment or application behavior.
+
+## Coding-agent Spec Kit
+
+The ZIP contains an implementation specification separate from the Requirements document. `START_HERE.md` and `AGENTS.md` tell the receiving coding agent how to read the bundle and start work. `spec-kit/implementation-spec.md` and `.pdf` combine the implementation plan, component/interface contracts, detailed tasks and validation plan. The separate `tasks.json` carries stable task IDs, dependencies, source component/edge/requirement links, implementation steps, deliverables and acceptance criteria. `context.json` preserves decisions, assumptions, proposed versus user-recorded requirements, notes and feedback; `questions.md` exposes missing decisions. `progress.json` starts every task as todo and provides fields for evidence, tests, changed files and blockers. `decision-log.md` records implementation decisions.
+
+The kit derives one component task per resource, contract and integration tasks per connection, and acceptance tasks per requirement, plus repository/CI setup, Terraform validation, security/recovery, costs, end-to-end tests and release handover. Build dependencies remain acyclic even when the diagram has feedback loops. Existing systems receive integration/reference tasks rather than recreation tasks. Unknown runtime, API schema, account access and acceptance targets remain clarification work. This is a generated, project-specific implementation plan; it does not claim that code is already written or that deployment is authorized.
+
+The recipient should begin with: “Read START_HERE.md and AGENTS.md, review the Spec Kit, identify the next actionable task and the highest-impact missing decision, then implement approved scope while recording progress and evidence.”
+
+## Product theme
+
+The header reads **AtMem · AtForma**. The UI uses the existing shared AtMem tokens for neutral surfaces and teal actions (`#1F777C` in light mode, `#5FD0D6` in dark mode), matching atmem.ai. Canvas interactions and stored project identifiers are preserved.
